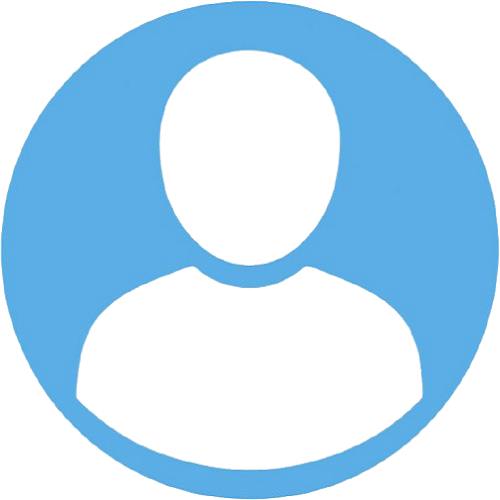
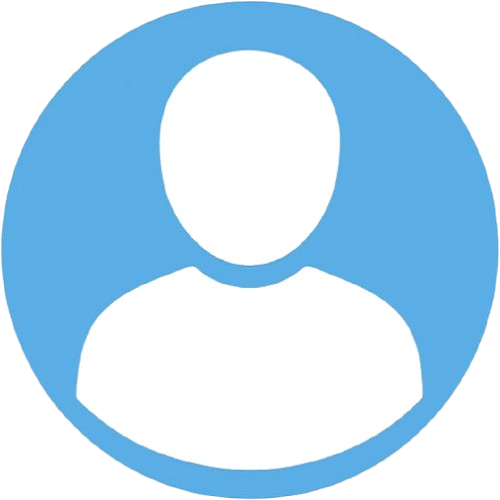
añadi background al header y comence a plantear al hero image

diff --git a/index.html b/index.html
@@ -20,11 +20,27 @@
             </ul>
         </section>
         <section class="header-derecho">
-            <img src="inicio/img/usuario.png" alt="Usuario" class="usuario">
             <ul class="header-derecho-menu">
                 <li><a href="inicio/header/derecho/iniciar-sesion.html">Iniciar sesión</a></li>
                 <li><a href="inicio/header/derecho/registro.html">Registro</a></li>
                 <li><a href="inicio/header/derecho/perfil.html">Perfil</a></li>
             </ul>
-          </section>
+            <img src="inicio/img/usuario.png" alt="Usuario" class="usuario">
+        </section>
+    </header>
+    <main class="main">
+        <section class="heroImage">
+            <h1 class="heroImage-title">
+                ¡Bienvenido a la colección de figuritas del Mundial! 
+            </h1>
+            <br>
+            <p>
+                Abri sobres, colecciona las figuritas de tus jugadores favoritos e intercambia las repes con otros hinchas
+            </p>
+            <br>
+            <h2>
+                ¡Que estas esperando!
+            </h2>
+        </section>
+    </main>
 </body>

diff --git a/estilos/main.css b/estilos/main.css
@@ -1,24 +1,24 @@
 
 .logo, .usuario{
-    width: 200px;
+    width: 100px;
     height: auto;
     margin: 10px;
     display: flex;
+    justify-content: space-between;
+    align-items: center;
+    background-color: transparent;
 }
-.usuario{
-    width: 180px;
-    height: auto;
-    margin: 10px;
-    display: flex;
-}
+
 
 .header{
     display: flex;
     justify-content: space-between;
     align-items: center;
+    background-color: #0a1045;
+    color: white;
 }
 
-.header-izquierda, .header-derecha{
+.header-izquierda, .header-derecho{
     display: flex;
     justify-content: center;
     align-items: center;

diff --git a/inicio/header/izquierda/tabla-clasificacion.html b/inicio/header/izquierda/tabla-clasificacion.html
@@ -9,7 +9,7 @@
 </head>
 <body>
     <section class="header-izquierda">
-        <img src="../../img/logo.png" alt="Logo" class="logo">
+        <img src="../../img/logo2.png" alt="Logo" class="logo">
         <ul class="header-izquierda-menu">
             <li><a href="../../../index.html">Home</a></li>   
             <li><a href="../../../inicio/header/izquierda/mi-coleccion.html">Mi Colección</a></li>